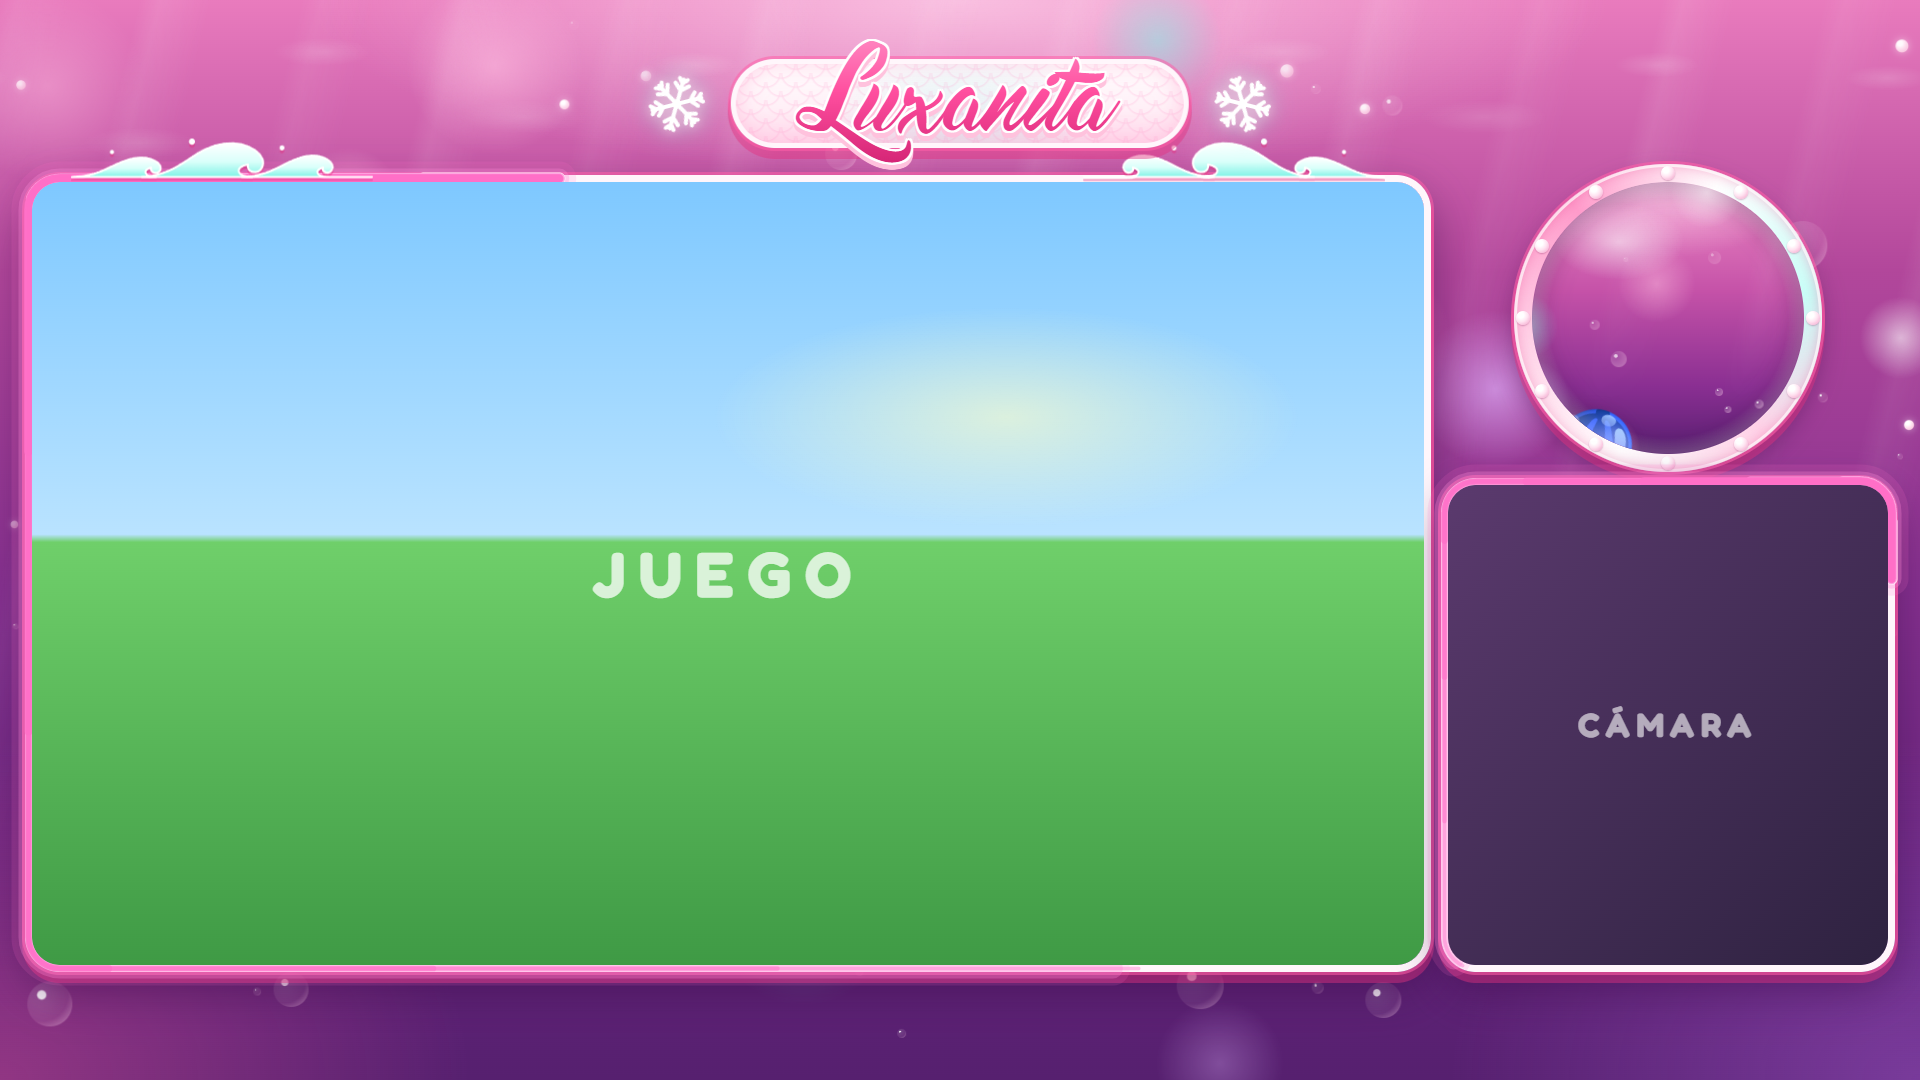
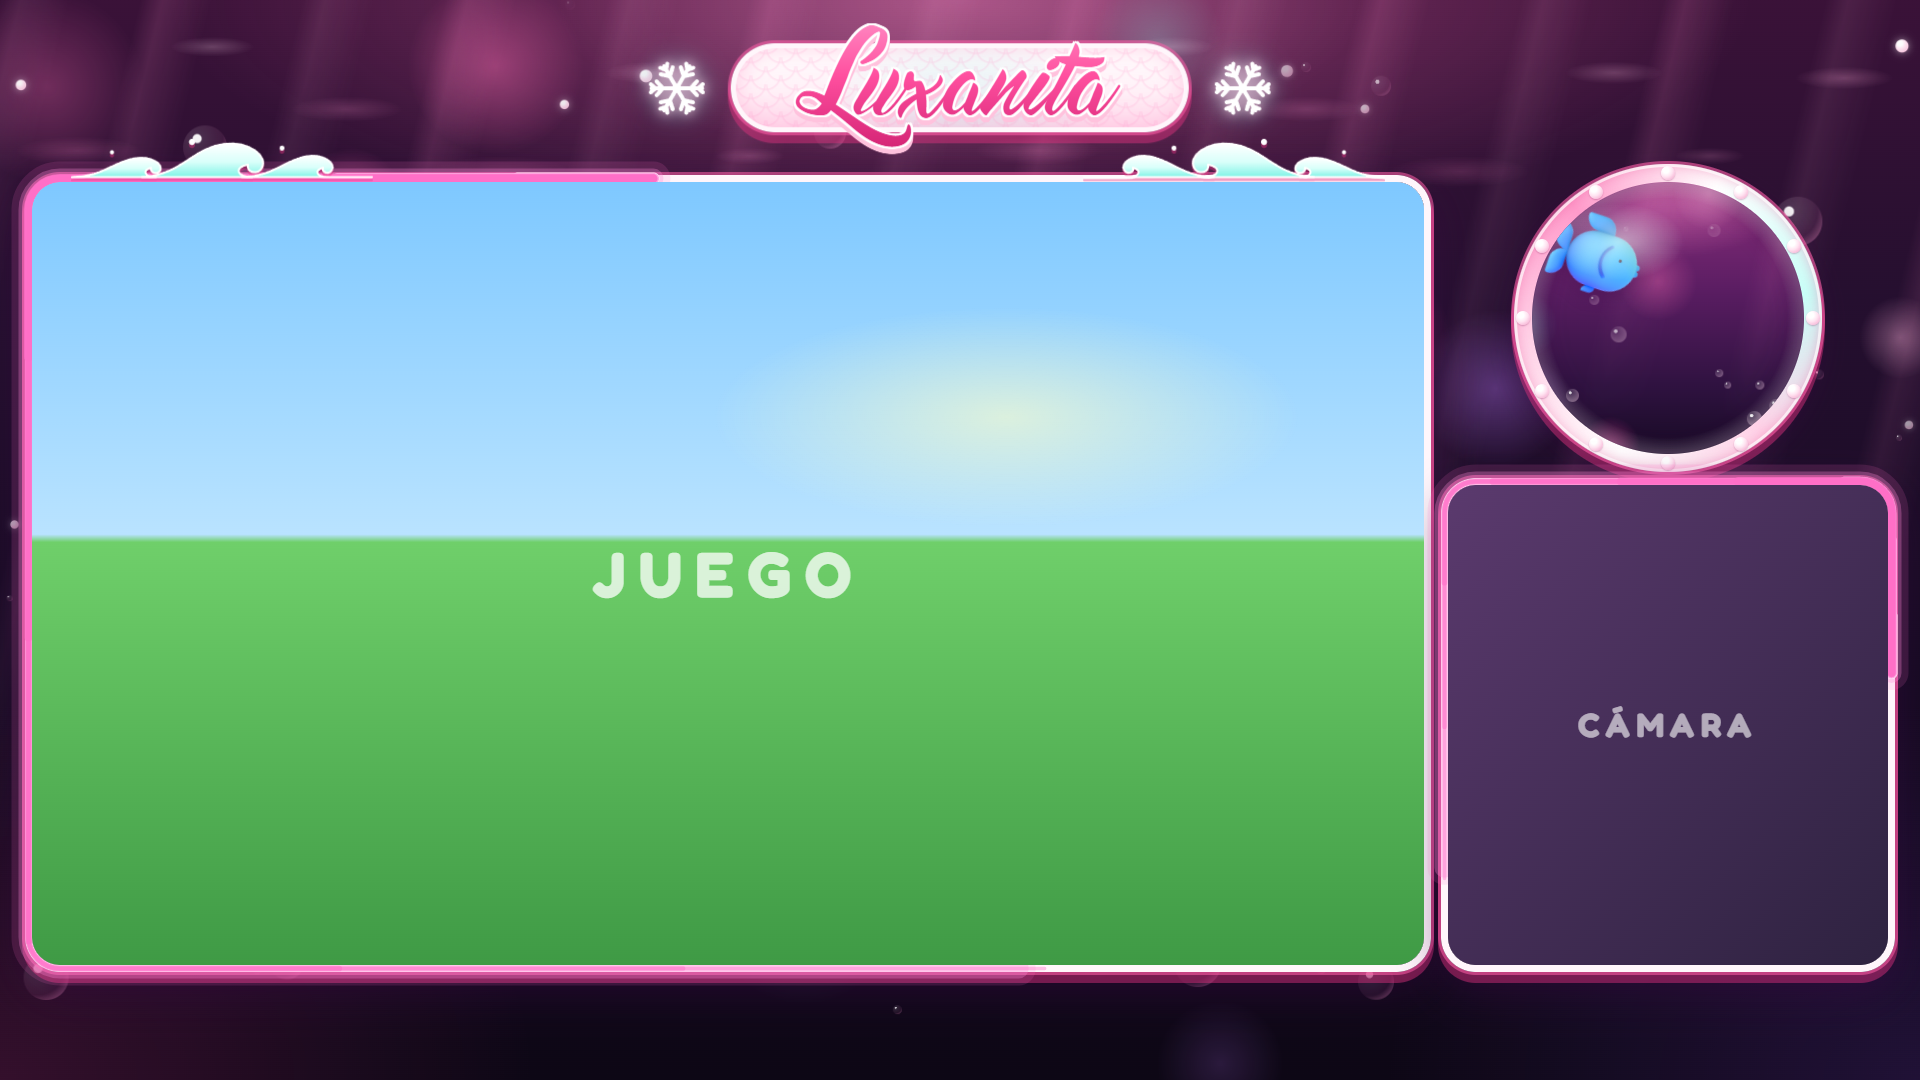
Overlay: fondo de mar profundo oscuro con reflejos rosas, a juego con la web

diff --git a/overlay/overlay.html b/overlay/overlay.html
@@ -56,10 +56,11 @@ html, body {
   inset: 0;
   overflow: hidden;
   background:
-    radial-gradient(ellipse 45% 22% at 50% 0%, rgba(255,214,236,.75), rgba(255,160,205,0) 75%),
-    radial-gradient(ellipse 35% 45% at 0% 100%, rgba(255,95,168,.35), transparent 70%),
-    radial-gradient(ellipse 35% 45% at 100% 100%, rgba(200,120,255,.3), transparent 70%),
-    linear-gradient(180deg, #e97bbd 0%, #b2479b 25%, #85308f 55%, #62237a 85%, #56206f 100%);
+    radial-gradient(ellipse 55% 30% at 50% 0%, rgba(255,110,181,.42), rgba(255,110,181,0) 75%),
+    radial-gradient(ellipse 30% 22% at 50% 0%, rgba(255,200,230,.28), transparent 70%),
+    radial-gradient(ellipse 40% 50% at 0% 100%, rgba(255,60,160,.16), transparent 70%),
+    radial-gradient(ellipse 40% 50% at 100% 100%, rgba(150,80,255,.14), transparent 70%),
+    linear-gradient(180deg, #3a1238 0%, #250f2f 28%, #160a22 62%, #0d0715 100%);
 }
 
 /* rayos de luz desde la superficie */
@@ -67,10 +68,10 @@ html, body {
   position: absolute;
   inset: -10% -10% 0;
   background: repeating-linear-gradient(100deg,
-    rgba(255,230,245,0) 0 70px, rgba(255,230,245,.16) 90px, rgba(255,230,245,0) 140px,
-    rgba(255,230,245,0) 230px, rgba(255,230,245,.1) 250px, rgba(255,230,245,0) 300px);
-  -webkit-mask-image: linear-gradient(180deg, #000 0%, rgba(0,0,0,.5) 45%, transparent 85%);
-          mask-image: linear-gradient(180deg, #000 0%, rgba(0,0,0,.5) 45%, transparent 85%);
+    rgba(255,140,200,0) 0 70px, rgba(255,140,200,.2) 92px, rgba(255,140,200,0) 140px,
+    rgba(255,140,200,0) 230px, rgba(255,170,215,.13) 252px, rgba(255,170,215,0) 300px);
+  -webkit-mask-image: linear-gradient(180deg, #000 0%, rgba(0,0,0,.6) 40%, transparent 90%);
+          mask-image: linear-gradient(180deg, #000 0%, rgba(0,0,0,.6) 40%, transparent 90%);
   animation: rays 26s ease-in-out infinite alternate;
 }
 @keyframes rays {
@@ -87,11 +88,13 @@ html, body {
   height: 260px;
   will-change: transform;
   background:
-    radial-gradient(ellipse 60px 18px at 10% 30%, rgba(255,255,255,.18), transparent 70%),
-    radial-gradient(ellipse 80px 22px at 28% 55%, rgba(255,255,255,.14), transparent 70%),
-    radial-gradient(ellipse 70px 20px at 47% 20%, rgba(255,255,255,.16), transparent 70%),
-    radial-gradient(ellipse 90px 24px at 68% 45%, rgba(255,255,255,.14), transparent 70%),
-    radial-gradient(ellipse 60px 18px at 86% 25%, rgba(255,255,255,.18), transparent 70%);
+    radial-gradient(ellipse 70px 16px at 8% 30%, rgba(255,170,215,.28), transparent 70%),
+    radial-gradient(ellipse 90px 20px at 24% 58%, rgba(255,140,200,.22), transparent 70%),
+    radial-gradient(ellipse 60px 14px at 38% 18%, rgba(255,210,235,.26), transparent 70%),
+    radial-gradient(ellipse 80px 18px at 52% 42%, rgba(255,150,205,.22), transparent 70%),
+    radial-gradient(ellipse 100px 22px at 68% 66%, rgba(255,130,195,.18), transparent 70%),
+    radial-gradient(ellipse 70px 16px at 84% 28%, rgba(255,190,225,.26), transparent 70%),
+    radial-gradient(ellipse 50px 12px at 94% 60%, rgba(255,160,210,.2), transparent 70%);
   background-size: 960px 260px;
   animation: caustics 22s linear infinite;
   opacity: .9;
@@ -114,7 +117,7 @@ html, body {
   width: 100%;
   height: 100%;
   border-radius: 50%;
-  background: radial-gradient(circle at 32% 30%, rgba(255,255,255,.95) 0 9%, rgba(255,255,255,.14) 12%, rgba(255,214,236,.1) 60%, rgba(255,214,236,.55) 100%);
+  background: radial-gradient(circle at 32% 30%, rgba(255,255,255,.95) 0 9%, rgba(255,255,255,.12) 12%, rgba(255,150,205,.08) 60%, rgba(255,150,205,.6) 100%);
 }
 @keyframes rise {
   0%   { transform: translateY(0); opacity: 0; }
@@ -335,8 +338,8 @@ html, body {
   border-radius: 50%;
   overflow: hidden;
   background:
-    radial-gradient(ellipse 70% 40% at 50% 0%, rgba(255,220,240,.65), transparent 70%),
-    linear-gradient(180deg, #f08cc6 0%, #c552a8 40%, #8a2f92 75%, #5a1f73 100%);
+    radial-gradient(ellipse 70% 40% at 50% 0%, rgba(255,140,200,.55), transparent 70%),
+    linear-gradient(180deg, #8e2f7e 0%, #5a1d62 40%, #2f1240 75%, #170a24 100%);
   box-shadow: inset 0 0 30px rgba(40,5,50,.55);
 }
 .porthole .water .rays {
@@ -606,7 +609,7 @@ html.preview body { background: #1b0e2c; }
 
   // ----- luces difuminadas (rosas, blancas y algún toque aguamarina) -----
   var bokeh = document.querySelector('.bokeh'), html = '';
-  var tints = ['rgba(255,190,225,.75)', 'rgba(255,255,255,.6)', 'rgba(255,130,200,.7)', 'rgba(127,243,230,.5)', 'rgba(225,180,255,.65)'];
+  var tints = ['rgba(255,110,181,.5)', 'rgba(255,180,220,.4)', 'rgba(255,80,170,.42)', 'rgba(127,243,230,.22)', 'rgba(190,120,255,.35)'];
   for (var i = 0; i < 20; i++) {
     html += '<span style="--x:' + (rnd() * 100).toFixed(1) + '%;--y:' + (rnd() * 100).toFixed(1) + '%;--s:' + (60 + rnd() * 160 | 0) + 'px;--c:' + tints[i % tints.length] + '"></span>';
   }
